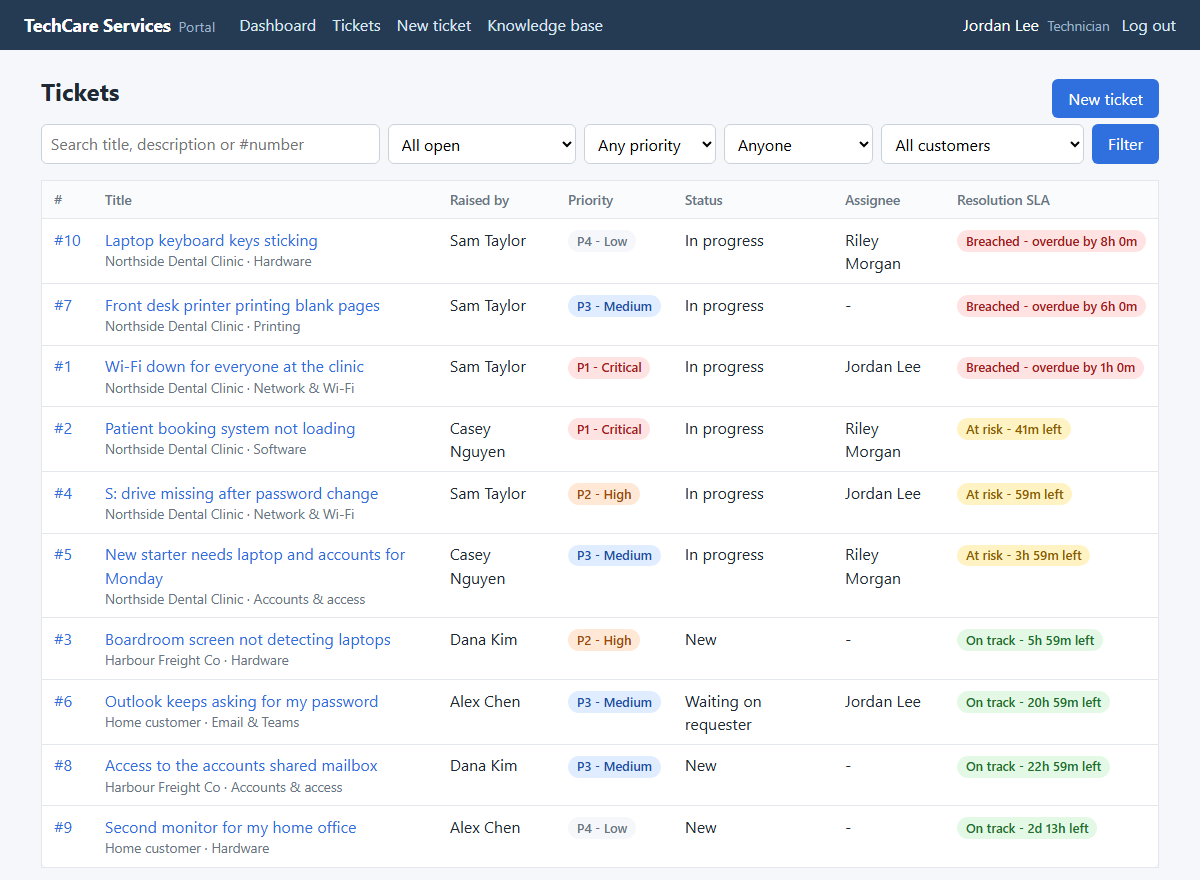
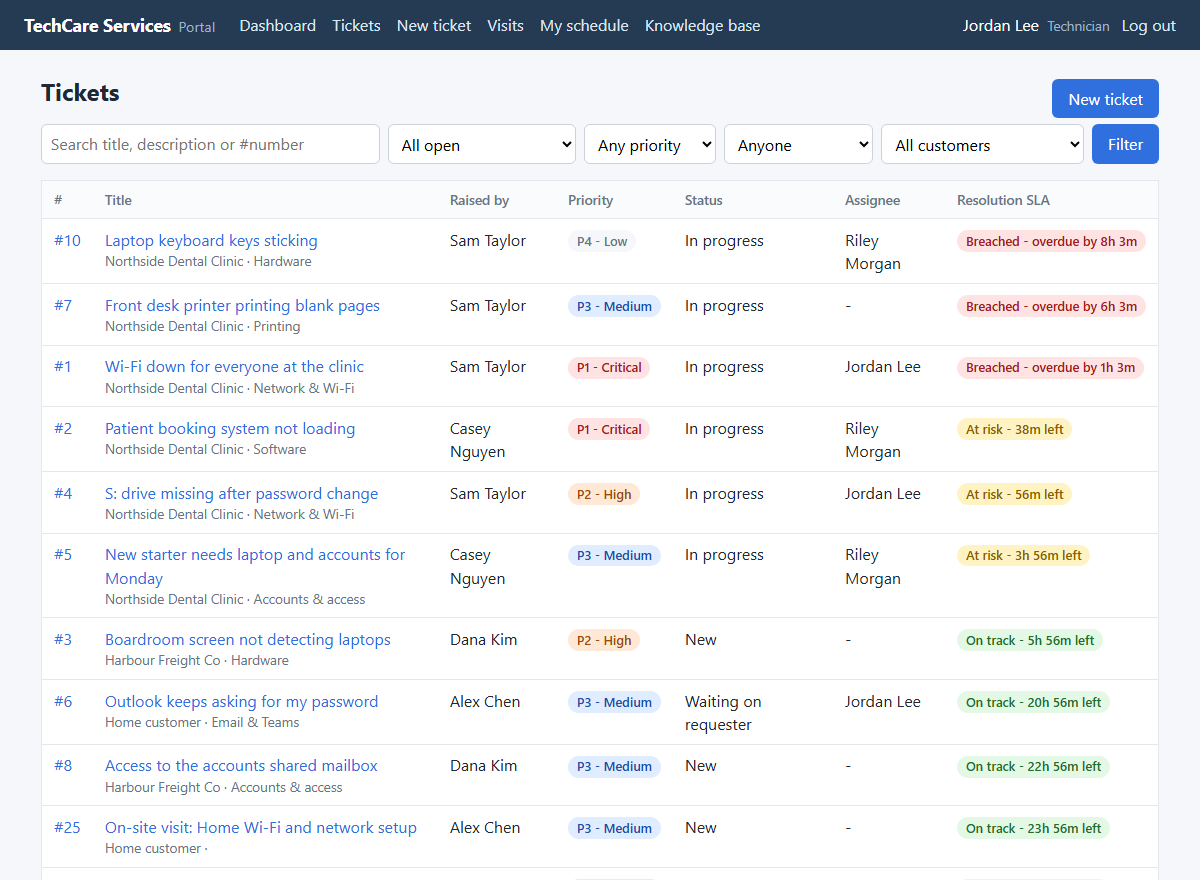
Document technician visits in the guide and README

diff --git a/docs/GUIDE.md b/docs/GUIDE.md
@@ -111,6 +111,22 @@ The demo has these people (all fictional):
     **TechCare Services** in the portal header to go back to the website. The new price is
     already there.
 
+**Technician visits:**
+
+11. **Log in as `alex.chen`** (home customer) and open **Visits**: Alex has a *Requested*
+    Wi-Fi visit, a *Completed* clean-up and nothing else. Click **Book a visit**. The service
+    list only shows on-site services for homes. Try today's date (refused), a Sunday (refused),
+    then a weekday next week. You land on the visit, and a ticket was created with it.
+12. **Log in as `jordan.lee`.** The dashboard shows *Visits to confirm*. Open Alex's visit,
+    choose a technician and a slot, and click **Confirm visit**. Open the visit's ticket: a
+    public comment says when and who, and the first-response clock has stopped.
+13. Try confirming another visit for the **same technician, day and slot**: it's refused
+    ("already has a visit in that slot").
+14. Open **My schedule**: Jordan's confirmed visits for the next two weeks, with address,
+    phone and access notes. Pick another technician from the list to see theirs.
+15. On a confirmed visit, click **Mark as completed**: the visit is completed and its ticket
+    resolved.
+
 ## 3. How a Django app fits together
 
 Django splits a web app into a few kinds of file. Every page in this app goes through the
@@ -159,7 +175,9 @@ helpdesk/
   roles.py                who is admin / technician / organisation manager / customer
   models.py               Organisation, Profile, Service, Category, Ticket, Comment, Article
   signals.py              creates a Profile whenever a user is created
-  views.py                one function per page
+  views.py                one function per page (tickets, dashboard, knowledge base)
+  bookings.py             the rules for visits: dates, services, double-booking, status changes
+  booking_views.py        the visit pages (request, list, detail, confirm, complete, cancel, schedule)
   urls.py                 the addresses of those pages
   forms.py                new ticket, update ticket, add comment, sign-up extra fields
   accounts.py             trust_email() for TechCare-created accounts, display_name()
@@ -172,7 +190,8 @@ helpdesk/
     account/              our versions of allauth's pages: login.html, signup.html,
                           _google_button.html, email/ (the verification email text)
     allauth/layouts/base.html   makes allauth's other pages use base.html
-    helpdesk/*.html       dashboard, ticket list/detail/form, knowledge base
+    helpdesk/*.html       dashboard, ticket list/detail/form, knowledge base,
+                          booking_list/form/detail, schedule
   static/helpdesk/style.css   the only stylesheet
   management/commands/seed_demo.py   fills the database with demo data
   migrations/
@@ -180,6 +199,7 @@ helpdesk/
     0002_organisations_and_profiles.py   adds Organisation, Profile, Ticket.organisation
     0003_create_missing_profiles.py      gives users who already existed a profile
     0004_services.py                     adds the Service price list
+    0005_bookings.py                     adds Booking and its double-booking constraint
   tests/                  automatic tests (section 10)
 website/                  the public TechCare website (no models)
   views.py                home page and services page
@@ -272,6 +292,21 @@ TechCare staff can see.
 | `is_active` | Untick to hide it from the website without deleting it |
 | `sort_order` | Lower numbers are shown first |
 
+**Booking** is a request for a technician visit. Every booking belongs to exactly one ticket
+(`OneToOneField`):
+
+| Field | Meaning |
+|---|---|
+| `ticket` | The ticket created with it. The conversation and SLA timers live there |
+| `service` | Which on-site service. Remote-only services can't be chosen |
+| `address`, `contact_phone`, `notes` | Where to go, who to call, access notes ("parking at the rear") |
+| `visit_date`, `time_slot` | The day, and `morning` (8am-12pm) or `afternoon` (12pm-5pm) |
+| `status` | `requested`, `confirmed`, `completed` or `cancelled` |
+| `technician` | The TechCare technician going (set when confirmed) |
+
+A **database constraint** (`one_confirmed_visit_per_technician_slot`) makes it impossible
+to store two *confirmed* visits for the same technician, day and slot.
+
 `TicketQuerySet` in `models.py` adds two shortcuts used everywhere:
 
 - `Ticket.objects.open()`: tickets that are New, In progress or Waiting
@@ -342,6 +377,11 @@ hours), and they don't pause while waiting on the requester.
 | Write or see internal notes | - | no | no | yes |
 | Change status, priority or assignee | login page | **403** | **403** | yes |
 | Knowledge base | login page | published articles | published articles | published articles |
+| Book a visit | login page | yes, on-site services for their customer type | yes | yes, any on-site service |
+| See visits | login page | own only | own + organisation's | all |
+| Confirm, change or complete a visit | login page | **403** | **403** | yes |
+| Cancel a visit | login page | own, until the day before | own + organisation's, until the day before | any open visit |
+| My schedule | login page | **403** | **403** | yes |
 | Django admin | login page | no | no | admin only |
 
 Roles are worked out in **one function**, `roles.role_of(user)`. Templates use it through
@@ -418,13 +458,13 @@ database queries.
 
 ## 10. Tests and CI
 
-Run all 94 tests:
+Run all 122 tests:
 
 ```bash
 python manage.py test
 ```
 
-You should see `Ran 94 tests ... OK`. Each test creates its own empty test database, so
+You should see `Ran 122 tests ... OK`. Each test creates its own empty test database, so
 your real data is never touched.
 
 | File | What it checks |
@@ -432,6 +472,7 @@ your real data is never touched.
 | `tests/test_sla.py` | Every SLA rule and boundary (exactly 25% left, exactly at the deadline, ...) and the "2h 15m left" text |
 | `tests/test_models.py` | Deadlines on create and on priority change, resolved/reopened, first-response rules, `open()` and `visible_to()` |
 | `tests/test_views.py` | Login redirects, 403/404 rules, raising/updating/commenting, internal-note privacy, list filters and order, dashboard counts, knowledge-base search |
+| `tests/test_bookings.py` | Date rules (tomorrow to 60 days, no Sundays), which services each customer type can book, requesting a visit creates its ticket, visibility (404 for other customers, managers see colleagues'), customers can't confirm or complete, confirming assigns and comments, **no double-booking** (form and database), completing resolves the ticket, cancelling rules, the schedule, dashboard counts, the date shown in the format browsers need, and the website's *Book a visit* links |
 | `tests/test_accounts.py` | Sign-up makes a home customer and sends a branded verification email, no login before confirming, confirming logs in, sign-up can't make staff or join an organisation, existing emails aren't revealed, weak passwords refused, login by username or email, logout, password reset, trusted emails for admin-created users, the Google button only when configured and that it redirects to Google |
 | `tests/test_organisations.py` | Profiles are created automatically, the four roles, which tickets each role can see/open/comment on, managers still blocked from staff pages, staff filter by customer, dashboard per-customer counts, admin pages |
 | `tests/test_seed_demo.py` | The demo data covers every SLA state, every customer type and the price list, the password option, and refusing to seed twice |
@@ -518,6 +559,14 @@ organisation empty.
 
 **Turn on "Sign in with Google":** follow [GOOGLE_SIGN_IN.md](GOOGLE_SIGN_IN.md).
 
+**Confirm a technician visit:** Dashboard, then *Visits to confirm* (or *Visits*, then
+*Requested*). Open the visit, choose the technician, check the date and slot, and click
+*Confirm visit*. The customer sees the confirmation as a comment on their ticket. To move a
+confirmed visit, change the date or slot in the same box and click *Save changes*.
+
+**Change the booking rules** (how far ahead, no Sundays): the constants at the top of
+`helpdesk/bookings.py`, then the tests in `tests/test_bookings.py`.
+
 **See the emails the app sends** (verification, password reset): they're printed in the
 terminal running `runserver`.
 
@@ -552,7 +601,7 @@ It's the customer portal for an IT services company, built in Django. Business a
 customers raise tickets, technicians work them against SLA targets per priority, there's a
 knowledge base for self-service and a dashboard that shows what's breached or at risk.
 Home customers sign up themselves with email or Google. It has four roles, from customer
-up to admin, 94 automated tests and CI on GitHub. There's also a public website that
+up to admin, on-site visit booking with a technician schedule, 122 automated tests and CI on GitHub. There's also a public website that
 reads its prices and response times from the same data the portal uses.
 
 **"How do the SLA timers work?"**
@@ -593,6 +642,17 @@ always home customers: the form has no organisation or staff fields, and there's
 tries to sneak them in. Business accounts are created by TechCare, and because staff typed the
 address, it's trusted without a verification email.
 
+**"How do you stop a technician being booked twice?"**
+In two layers. The confirm form checks whether that technician already has a confirmed visit in
+that slot and shows a friendly error. Underneath, a partial unique constraint in the database
+(technician + date + slot, only for confirmed visits) means even a bug or a second request
+arriving at the same moment can't store a double booking. There's a test for each layer.
+
+**"Why does a booking create a ticket?"**
+So I didn't build a second messaging system. The ticket already has the conversation, the SLA
+timers and the permission rules. Bookings even reuse the ticket's `visible_to()` rule. Creating
+both happens in one database transaction, so you never get a booking without a ticket.
+
 **"What would you add next?"**
 Business-hours SLAs, pausing the clock while waiting on the customer, email notifications,
 self sign-up and on-site bookings. Most of that is on the roadmap below.
@@ -625,6 +685,9 @@ service-operation ideas.
 | **Email verification** | Proving you own an address by clicking a link sent to it |
 | **Account enumeration** | Finding out which emails have accounts by watching how a form responds. allauth's pages respond the same either way |
 | **Rate limiting** | Refusing too many attempts in a short time, e.g. password guessing |
+| **Database constraint** | A rule the database itself enforces, e.g. "unique". It holds even if application code has a bug |
+| **Partial (conditional) unique constraint** | Unique only for rows that match a condition, here only *confirmed* visits |
+| **Transaction** | Several database changes that all happen or none do (`transaction.atomic`) |
 
 ## 15. Roadmap: TechCare Services
 
@@ -635,8 +698,7 @@ customer portal, one feature at a time, each with tests and an update to this gu
 1. ~~**Organisations and roles.**~~ **Done.** See [16.1](#161-feature-1-organisations-and-roles).
 2. ~~**Company website.**~~ **Done.** See [16.2](#162-feature-2-the-techcare-website).
 3. ~~**Self sign-up.**~~ **Done.** See [16.3](#163-feature-3-self-sign-up-with-email-or-google).
-4. **Book a technician visit.** Choose a service, an address and a time slot. Technicians
-   see their schedule.
+4. ~~**Book a technician visit.**~~ **Done.** See [16.4](#164-feature-4-booking-a-technician-visit).
 5. **Service charges.** A price list and a quote on every booking. No real payments.
 6. **Help assistant.** It answers questions from the knowledge base. If that doesn't help,
    the conversation becomes a ticket or a booking. A real AI model can be plugged in later.
@@ -811,3 +873,65 @@ accounts are still created by TechCare.
 
 **How to check it yourself:** the sign-up steps at the start of
 [section 2](#2-try-it-in-5-minutes). For Google, follow [GOOGLE_SIGN_IN.md](GOOGLE_SIGN_IN.md).
+
+### 16.4 Feature 4: Booking a technician visit
+
+**Goal.** Customers can ask for a technician to come on site: choose a service, describe the
+job, pick a day and a morning or afternoon slot. TechCare confirms it with a technician, and
+each technician has a schedule. Afterwards the visit is marked completed.
+
+**What changed**
+
+| File | Change |
+|---|---|
+| `helpdesk/models.py` | New `Booking` model, one-to-one with `Ticket`, with a partial unique constraint against double-booking. `BookingQuerySet.visible_to()` and `upcoming()` |
+| `migrations/0005_bookings.py` | Creates the table and the constraint |
+| `helpdesk/bookings.py` (new) | The rules: allowed dates, which services each customer can book, `technician_is_free()`, and the actions `request_visit`, `confirm_visit`, `complete_visit`, `cancel_visit`, plus `schedule_for` |
+| `helpdesk/booking_views.py` (new) | The visit pages. They check who is asking, then call `bookings.py` |
+| `helpdesk/forms.py` | `BookingRequestForm`, `BookingConfirmForm` and `ISODateInput` (a date picker that keeps its value) |
+| `helpdesk/urls.py` | `/portal/bookings/...` and `/portal/schedule/` |
+| templates | Visits list, booking form, visit page (confirm, complete and cancel boxes), schedule, a visit card on the ticket page, *Visits* and *My schedule* in the menu, two dashboard cards |
+| `website/.../_service_card.html` | *Book a visit* on every on-site service |
+| `seed_demo.py` | Six demo visits in every status, created through `bookings.py` |
+| `tests/test_bookings.py` (new) | 28 tests (section 10) |
+
+**Decisions and why**
+
+1. **Every booking has a ticket.** The ticket already provides the conversation, SLA timers,
+   assignment and permissions, so a booking only stores what's specific to a visit (where,
+   when, who). Bookings reuse the ticket's visibility rule:
+   `Booking.objects.visible_to(user)` is "bookings whose ticket you can see", so the
+   permission logic still lives in one place.
+2. **Rules in `bookings.py`, not in views.** Just like `sla.py`, the business rules are plain
+   functions. The views, the seed command and the tests all call the same `confirm_visit()`,
+   so every confirmation assigns the ticket, moves it to *In progress* and posts the same
+   comment, whoever triggers it.
+3. **Two layers against double-booking.** The form gives a friendly message. The database
+   constraint is the safety net that can't be bypassed, not by a bug and not by two staff
+   clicking *Confirm* at the same moment.
+4. **Transactions.** `request_visit()` creates the ticket and the booking inside
+   `transaction.atomic`, so if anything fails neither is saved. The other actions do the same
+   for their booking change and ticket comment.
+5. **Status changes are explicit actions** (`confirm`, `complete`, `cancel`) that check the
+   current status and raise `BookingError` if the move isn't allowed (you can't complete a
+   visit that was never confirmed). The UI only shows the buttons that are allowed.
+6. **Customer-friendly limits.** Visits run from tomorrow up to 60 days ahead, Monday to
+   Saturday, in two half-day slots. Customers can cancel online until the day before, and
+   staff can cancel any time. A cancelled visit leaves its ticket open, because the problem may
+   still need fixing another way.
+7. **The right services for the right customer.** Home customers only see home and shared
+   on-site services, business customers only business and shared ones, and remote-only
+   services can't be booked for a visit. The form's list comes from `bookable_services()`,
+   so a hand-made request for another service fails validation.
+8. **Completing a visit resolves its ticket**, because for a visit "the technician came and
+   fixed it" is the resolution. Staff can still reopen the ticket if needed.
+9. **Fictional phone numbers.** The demo uses `0491 570 156`-`159`, numbers the Australian
+   regulator (ACMA) sets aside for fiction, so they can't reach a real person.
+
+**A bug the screenshots caught.** The first version of the staff form showed an empty date.
+Django formatted the date the Australian way (`05/11/2026`), but a browser's date picker only
+accepts `2026-11-05`, so it quietly dropped the value. Saving would have blanked the date.
+`ISODateInput` always renders ISO dates, and a test now checks the value is there.
+
+**How to check it yourself:** steps 11 to 15 of the demo script in
+[section 2](#2-try-it-in-5-minutes).

diff --git a/README.md b/README.md
@@ -23,6 +23,9 @@ file, the data model, the SLA rules, permissions, a demo script and interview ta
 - **Self sign-up** for home customers, with email and password or **Sign in with Google**
   (django-allauth). The email must be verified before the first login. Business customers'
   accounts are created by TechCare in the admin.
+- **On-site visits.** Customers book a technician for a service, day and morning or afternoon
+  slot. Staff confirm it with a technician (who can't be double-booked), each technician has
+  a **My schedule** page, and completing the visit resolves its ticket.
 - **Tickets** have a priority (P1 to P4), a status (New, In progress, Waiting on requester,
   Resolved, Closed), a category and an assignee. The conversation thread supports
   **internal notes** that only TechCare staff can see.
@@ -63,6 +66,12 @@ Creating a home customer account (the verification email is printed in the serve
 during development):
 
 ![Sign up](docs/signup.png)
+
+Booking a visit, and a technician's schedule:
+
+| Book a visit (customer) | My schedule (technician) |
+|---|---|
+| ![Book a visit](docs/booking-form.png) | ![Schedule](docs/schedule.png) |
 
 Knowledge base search, as a customer sees it:
 
@@ -116,6 +125,8 @@ helpdesk/            the portal and all the data:
   roles.py           admin / technician / organisation manager / customer, in one place
   models.py          Organisation, Profile, Service, Category, Ticket, Comment, Article
   signals.py         creates a profile for every new user
+  bookings.py        technician visit rules: dates, services, double-booking, status changes
+  booking_views.py   the visit pages and the technician schedule
   views.py           dashboard, ticket list/detail/create, comments, updates, knowledge base
   forms.py           ticket, update and comment forms
   permissions.py     staff_required decorator
@@ -157,6 +168,9 @@ Design choices:
   of its own: services are rows an admin edits, and the response-time table is generated from
   `sla.py`, so the published promise always matches what the portal measures. The portal
   sits under `/portal/`. Every link uses a named URL, so moving it was a one-line change.
+- **Visits reuse tickets.** Each booking has its own ticket (conversation, SLA and permissions
+  come for free), and the rules live in `bookings.py`. Double-booking a technician is stopped
+  twice: by the form, and by a partial unique constraint in the database that can't be bypassed.
 - **Accounts use django-allauth, not home-made login code.** Self sign-ups must verify their
   email before logging in, logins and emails are rate-limited, and the forms never reveal
   whether an address is registered. Accounts created by TechCare staff are trusted
@@ -174,9 +188,9 @@ python manage.py test
 ruff check . && ruff format --check .
 ```
 
-There are 94 tests. They cover every SLA rule and boundary, due dates and priority changes,
+There are 122 tests. They cover every SLA rule and boundary, due dates and priority changes,
 first-response rules, what each of the four roles can see, comment on or update (including
-one customer never seeing another's tickets), sign-up, email verification and login, internal-note privacy,
+one customer never seeing another's tickets), sign-up, email verification and login, visit booking rules and double-booking, internal-note privacy,
 ticket list filters and ordering, dashboard counts and compliance, knowledge-base search and
 drafts, the public website pages, and the demo seed command. Test runs use a fast password hasher so the suite takes
 under a second. GitHub Actions runs `manage.py check`, a missing-migrations check, ruff and the
